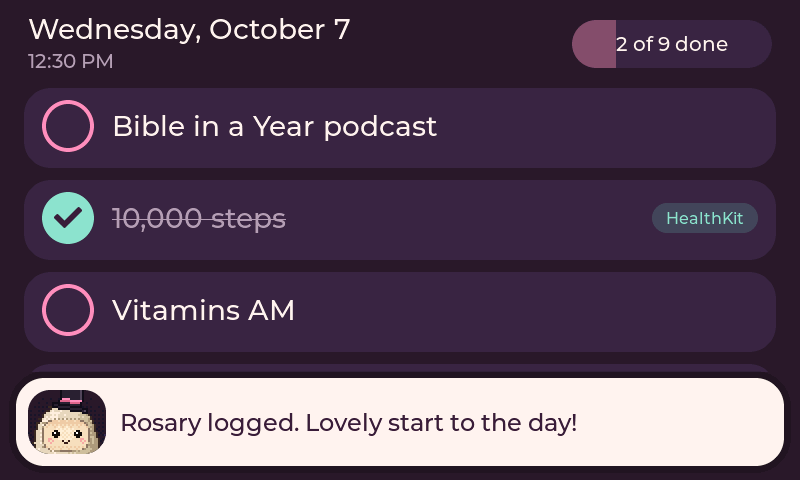
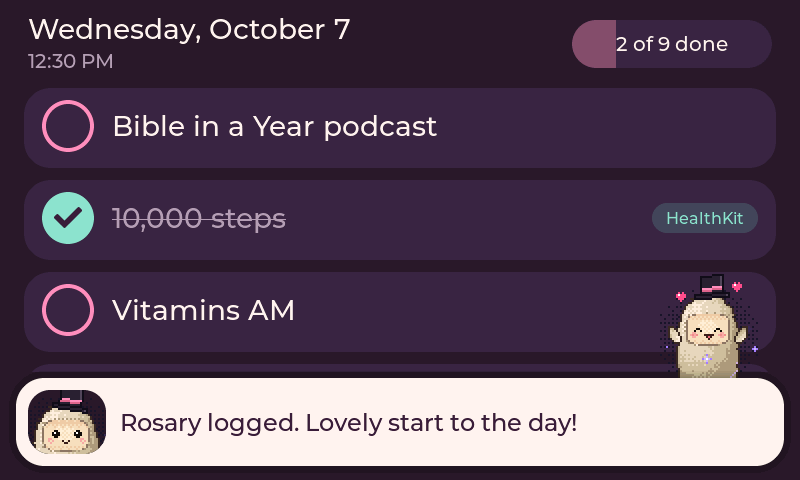
Happy dance on every completion
Issue #1 asks for Muse to dance whenever a task completes, not only when
the list is finished. Each tap (and each item Muse marks done, e.g. from
HealthKit) now gets a two-second dance from a small top-hat Muse using
the avatar's happy pose (hop, ^ ^ eyes, arms up, hearts) with a wiggling
hat. It starts at the tap so it feels instant, Undo stops it, a second
completion restarts the timer instead of stacking, and the last item
still gets the full celebration.

Placement per the owner: bottom right, rising from behind the message bar
when it's up, otherwise from the bottom edge. The dancer isn't clickable,
so taps on the row beneath still land (sim: new tap_at=x,y key tests it).

Fixes #1

Changed region(s): [[0.8125, 0.5625, 0.9375, 0.8125]]

diff --git a/components/todo_display/todo_ui.c b/components/todo_display/todo_ui.c
@@ -39,6 +39,9 @@
 #define MASCOT_FRAME_MS 80u
 #define BAR_SLIDE_MS 260u
 #define CONFETTI_N 28
+#define DANCER_PX 128
+#define DANCER_RISE_MS 220.0f
+#define DANCER_DROP_MS 260.0f
 
 #define PI_F 3.14159265f
 
@@ -102,6 +105,8 @@ static struct {
     lv_obj_t *party_muse;
     lv_obj_t *party_title;
     lv_obj_t *confetti[CONFETTI_N];
+
+    lv_obj_t *dancer;
 
     lv_obj_t *bar;
     lv_obj_t *bar_muse;
@@ -685,6 +690,20 @@ static void build_party(void)
     lv_obj_align(s.party_title, LV_ALIGN_BOTTOM_MID, 0, -18);
 }
 
+/*
+ * The little dancer pops up at the bottom right for each completion: from
+ * behind the message bar when it's showing, otherwise from the bottom edge.
+ * Built before the bar so the bar hides its feet. Not clickable, so taps on
+ * rows underneath still land.
+ */
+static void build_dancer(void)
+{
+    s.dancer = todo_mascot_create(s.root, DANCER_PX);
+    lv_obj_add_flag(s.dancer, LV_OBJ_FLAG_IGNORE_LAYOUT);
+    lv_obj_set_pos(s.dancer, SCREEN_W - DANCER_PX - 28, SCREEN_H);
+    show(s.dancer, false);
+}
+
 static void build_bar(void)
 {
     s.bar = box(s.root);
@@ -758,6 +777,7 @@ void todo_ui_create(lv_obj_t *parent, todo_model_t *model)
 
     build_done();
     build_party();
+    build_dancer();
     build_bar();
     build_idle(parent);
 }
@@ -899,6 +919,34 @@ static void update_party(bool draw)
     }
 }
 
+static void update_dancer(todo_screen_t screen, bool draw)
+{
+    const todo_model_t *m = s.model;
+    bool on = m->dancing && screen == TODO_SCREEN_LIST;
+    show(s.dancer, on);
+    if (!on) {
+        return;
+    }
+    float t = since(m->dance_ms);
+    float up = t < DANCER_RISE_MS ? ease_out(t / DANCER_RISE_MS)
+             : (t > TODO_DANCE_MS - DANCER_DROP_MS ? 1 - ease_out((t - (TODO_DANCE_MS - DANCER_DROP_MS)) / DANCER_DROP_MS)
+                                                    : 1);
+    /* Where its feet rest: on the bar's top edge, or just below the screen edge. */
+    int32_t floor_y = s.bar_on ? lv_obj_get_y(s.bar) + 22 : SCREEN_H + 6;
+    int32_t visible = DANCER_PX + 2; /* hat to feet */
+    set_xy(s.dancer, SCREEN_W - DANCER_PX - 28, floor_y - (int32_t)lroundf((float)visible * up));
+    if (draw) {
+        float sec = t / 1000.0f;
+        todo_mascot_pose_t pose = {
+            .t = s.now / 1000.0f,
+            .happy = 1.0f,
+            .hat_lift = 1.5f * fabsf(sinf(sec * 7.0f)),
+            .hat_tilt = 0.35f * sinf(sec * 14.0f),
+        };
+        todo_mascot_draw(s.dancer, &pose);
+    }
+}
+
 void todo_ui_peek(uint32_t now_ms)
 {
     s.peek_on = true;
@@ -954,6 +1002,7 @@ void todo_ui_update(uint32_t now_ms)
     }
     update_peek(draw && screen != TODO_SCREEN_IDLE);
     update_bar(draw);
+    update_dancer(screen, draw);
 }
 
 bool todo_ui_point_for(const char *target, lv_point_t *pt)

diff --git a/tests/test_todo_model.c b/tests/test_todo_model.c
@@ -486,6 +486,64 @@ static void test_celebration(void)
     CHECK(todo_model_screen(&M) == TODO_SCREEN_LIST);
 }
 
+static void test_dance(void)
+{
+    setup("dance/tap");
+    push(DAY);
+    CHECK(!M.dancing);
+    todo_model_tap(&M, "rosary@1007", T);
+    CHECK(M.dancing); /* right at the tap, not after the undo window */
+    run(1900);
+    CHECK(M.dancing);
+    run(200);
+    CHECK(!M.dancing);
+
+    setup("dance/extends");
+    push(DAY);
+    todo_model_tap(&M, "rosary@1007", T);
+    run(1500);
+    todo_model_tap(&M, "vit-am@1007", T); /* a second completion restarts it */
+    run(1900);
+    CHECK(M.dancing);
+    run(200);
+    CHECK(!M.dancing);
+
+    setup("dance/undo");
+    push(DAY);
+    todo_model_tap(&M, "rosary@1007", T);
+    run(500);
+    todo_model_undo(&M, "rosary@1007", T);
+    CHECK(!M.dancing);
+
+    setup("dance/healthkit");
+    push(DAY);
+    run(3000);
+    push("[{\"id\":\"rosary@1007\",\"label\":\"Rosary\",\"source\":\"manual\"},"
+         "{\"id\":\"vit-am@1007\",\"label\":\"Vitamins AM\",\"source\":\"manual\"},"
+         "{\"id\":\"steps@1007\",\"label\":\"10,000 steps\",\"source\":\"healthkit\",\"done\":true}]");
+    CHECK(M.dancing);
+
+    /* A push that only repeats what's already done doesn't dance again. */
+    run(2100);
+    CHECK(!M.dancing);
+    push("[{\"id\":\"rosary@1007\",\"label\":\"Rosary\",\"source\":\"manual\"},"
+         "{\"id\":\"vit-am@1007\",\"label\":\"Vitamins AM\",\"source\":\"manual\"},"
+         "{\"id\":\"steps@1007\",\"label\":\"10,000 steps\",\"source\":\"healthkit\",\"done\":true}]");
+    CHECK(!M.dancing);
+    /* Nor does a list that arrives already done. */
+    setup("dance/arrives_done");
+    push("[{\"id\":\"s\",\"label\":\"Steps\",\"source\":\"healthkit\",\"done\":true}]");
+    CHECK(!M.dancing);
+
+    /* The last item: the full celebration replaces the dance. */
+    setup("dance/last_item");
+    push("[{\"id\":\"s\",\"label\":\"Steps\",\"source\":\"healthkit\"},"
+         "{\"id\":\"r\",\"label\":\"Rosary\",\"source\":\"manual\"}]");
+    push("[{\"id\":\"s\",\"label\":\"Steps\",\"source\":\"healthkit\",\"done\":true},"
+         "{\"id\":\"r\",\"label\":\"Rosary\",\"source\":\"manual\",\"done\":true}]");
+    CHECK(M.celebrating && !M.dancing);
+}
+
 static void test_message_bar(void)
 {
     setup("message_bar");
@@ -617,6 +675,7 @@ int main(void)
     test_push_keeps_local_state();
     test_muse_marks_done();
     test_celebration();
+    test_dance();
     test_message_bar();
     test_reboot_keeps_outbox_and_list();
     test_list_result();

diff --git a/components/todo_display/todo_model.c b/components/todo_display/todo_model.c
@@ -94,8 +94,15 @@ static void set_state(todo_item_t *it, todo_row_state_t st, uint32_t now)
     it->state_ms = now;
 }
 
+static void start_dance(todo_model_t *m, uint32_t now)
+{
+    m->dancing = true;
+    m->dance_ms = now;
+}
+
 static void start_celebration(todo_model_t *m, uint32_t now)
 {
+    m->dancing = false; /* the big celebration takes over */
     m->celebrating = true;
     m->celebrate_ms = now;
 }
@@ -462,6 +469,9 @@ bool todo_model_set_list(todo_model_t *m, const char *items_json, const char *da
     m->count = count;
     m->have_list = true;
     copy_str(m->date, sizeof(m->date), date ? date : "");
+    if (completed_by_muse) {
+        start_dance(m, now_ms);
+    }
     if (open_before > 0 && completed_by_muse && open_count(m) == 0) {
         start_celebration(m, now_ms);
     }
@@ -499,6 +509,7 @@ bool todo_model_tap(todo_model_t *m, const char *id, uint32_t now_ms)
     it->tap_ms = now_ms ? now_ms : 1;
     it->completed_at = wall_now(m);
     set_state(it, TODO_ROW_UNDO, now_ms);
+    start_dance(m, now_ms);
     m->seq++;
     return true;
 }
@@ -511,6 +522,7 @@ bool todo_model_undo(todo_model_t *m, const char *id, uint32_t now_ms)
     }
     it->completed_at = 0;
     set_state(it, TODO_ROW_OPEN, now_ms);
+    m->dancing = false; /* never mind, then */
     m->seq++;
     return true;
 }
@@ -730,6 +742,10 @@ void todo_model_tick(todo_model_t *m, uint32_t now_ms)
         save(m);
     }
 
+    if (m->dancing && elapsed(now_ms, m->dance_ms, TODO_DANCE_MS)) {
+        m->dancing = false;
+        m->seq++;
+    }
     if (m->celebrating && elapsed(now_ms, m->celebrate_ms, TODO_CELEBRATE_MS)) {
         m->celebrating = false;
         m->seq++;

diff --git a/sim/src/main.c b/sim/src/main.c
@@ -234,6 +234,15 @@ static bool screenshot(const char *path)
     return ok;
 }
 
+static void tap_point(lv_point_t pt, bool real_time)
+{
+    g.touch_pt = pt;
+    g.touch_down = true;
+    run_for(TAP_HOLD_MS, real_time);
+    g.touch_down = false;
+    run_for(40, real_time);
+}
+
 static void tap(const char *target, bool real_time)
 {
     lv_point_t pt;
@@ -242,11 +251,7 @@ static void tap(const char *target, bool real_time)
         g.failures++;
         return;
     }
-    g.touch_pt = pt;
-    g.touch_down = true;
-    run_for(TAP_HOLD_MS, real_time);
-    g.touch_down = false;
-    run_for(40, real_time);
+    tap_point(pt, real_time);
 }
 
 static void reboot(void)
@@ -425,6 +430,12 @@ static bool run_scenario(const char *path, const char *out_dir, bool real_time)
             ok = todo_model_show_message(&g.model, v, g.now_ms, err, sizeof(err));
         } else if (!strcmp(k, "tap")) {
             tap(v, real_time);
+        } else if (!strcmp(k, "tap_at")) {
+            int x, y;
+            ok = sscanf(v, "%d,%d", &x, &y) == 2;
+            if (ok) {
+                tap_point((lv_point_t){ x, y }, real_time);
+            }
         } else if (!strcmp(k, "reply")) {
             muse_reply(v);
         } else if (!strcmp(k, "turn_error")) {

diff --git a/components/todo_display/include/todo_model.h b/components/todo_display/include/todo_model.h
@@ -39,6 +39,7 @@ extern "C" {
 #define TODO_AUTO_DONE_SHOW_MS 3000u
 #define TODO_LEAVE_MS 450u
 #define TODO_CELEBRATE_MS 2000u
+#define TODO_DANCE_MS 2000u /* happy dance on each completion (issue #1) */
 /* Message bar: short messages clear sooner than long ones (owner's choice). */
 #define TODO_MESSAGE_SHORT_CHARS 50
 #define TODO_MESSAGE_SHORT_MS 30000u
@@ -122,6 +123,10 @@ typedef struct {
     /* All-done celebration. */
     bool celebrating;
     uint32_t celebrate_ms;
+
+    /* Little happy dance on each completion; a new one restarts the timer. */
+    bool dancing;
+    uint32_t dance_ms;
 
     /* Bumps on any change the UI should redraw for. */
     uint32_t seq;

diff --git a/docs/03-ui-spec.md b/docs/03-ui-spec.md
@@ -73,7 +73,19 @@ marks them.
   would bring back an item the owner just checked off.
 - Items not in the new list disappear (unless they're in the outbox — the outbox still sends).
 
-## Celebration (issue #1)
+## Happy dance on every completion (issue #1)
+
+- Each completion gets a two-second happy dance from a small top-hat Muse (the avatar's
+  happy pose: hop, ^ ^ eyes, arms up, pixel hearts, with a wiggling hat).
+- It starts at the tap (not when the undo window ends), so it feels instant; Undo stops it.
+  Items Muse marks done (HealthKit etc.) dance too. Another completion while it's dancing
+  restarts the two seconds rather than stacking dancers.
+- Placement (owner's choice, Oct 9): bottom right, popping up from behind the message bar when
+  it's showing, otherwise from the bottom edge of the screen. Muse isn't clickable, so taps on
+  the row underneath still land.
+- The last item gets the full celebration below instead.
+
+## Celebration when everything is done (issue #1)
 
 - When the last open item becomes done (by tap or by Muse), play a two-second top-hat Muse
   celebration animation (the agent's avatar: fuzzy form, black top hat — keep it simple, e.g. a

diff --git a/sim/README.md b/sim/README.md
@@ -51,6 +51,7 @@ clock (fixed to 2026-10-07 09:14 America/Chicago unless `clock=` sets it).
 | `set_list_expect_error` | JSON that must be rejected |
 | `message` | `todo.show_message` text |
 | `tap` | `row:<id>`, `undo:<id>` or `message` (a real touch at that spot) |
+| `tap_at` | `x,y`: a touch at exact screen coordinates |
 | `reply` / `turn_error` | Muse answers / fails the turn in flight |
 | `auto_reply`, `auto_reply_ms` | Reply text Muse sends automatically (`off` to stop), and the delay |
 | `advance` | Run for N ms, drawing every 10 ms frame |
